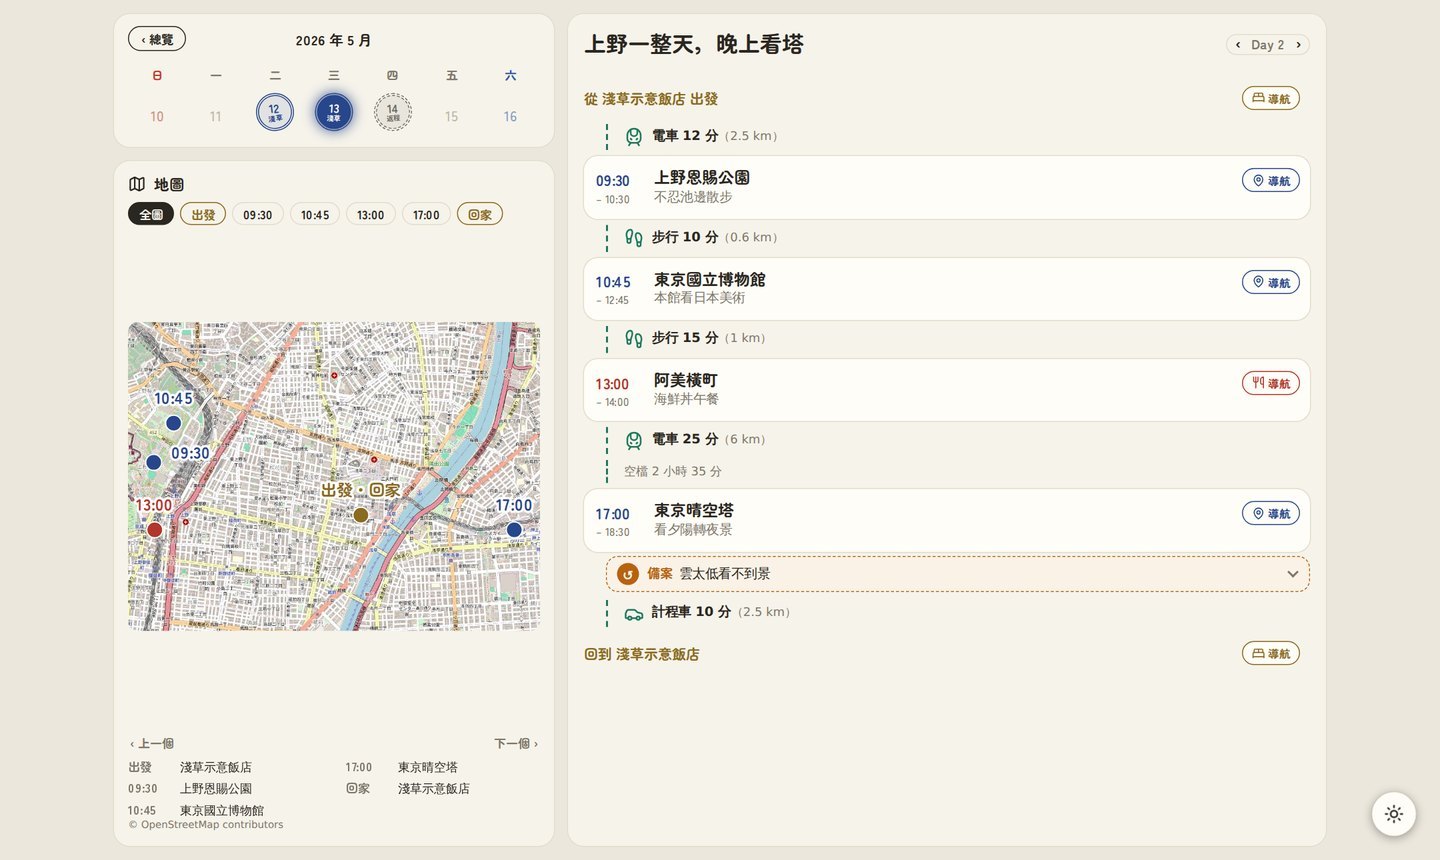
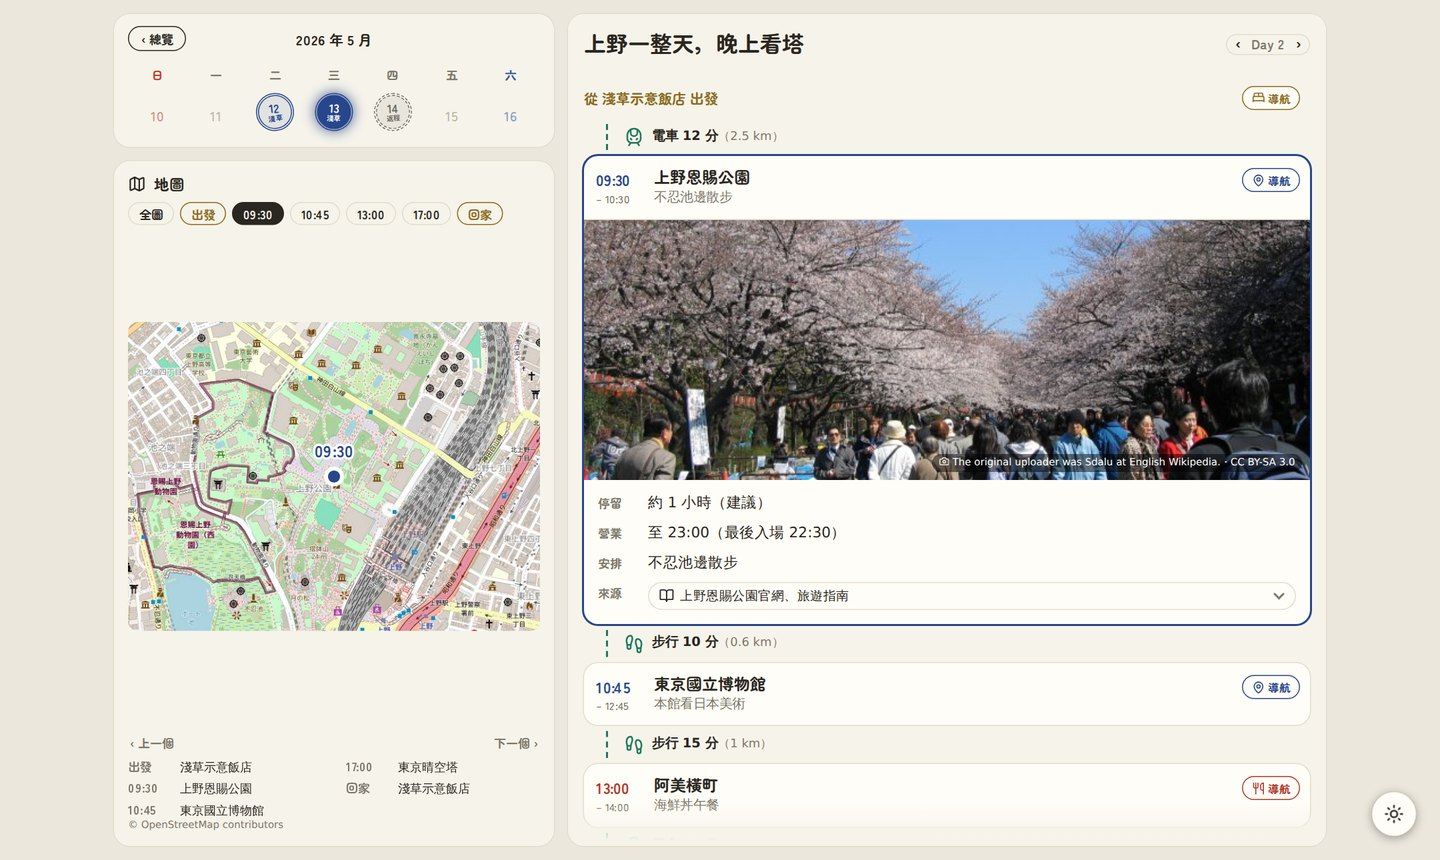
docs(readme): shots with photos, an opened stop, the lock screen; FAQ as headings
User's picks on the board: photos=P1 (with photos), lock=L1 (the lock
screen plus how Cloudflare hosts it). Then, from the user: the day
shots show a stop opened, and the unopened versions go.

- demo_trip.py runs the plugin's own photo step (photo_adapter --backend
  wiki: Wikidata first, licence-checked, credited) -- 5 of the demo's
  landmarks get a photo -- and locks the reader with the shipped template
  and the real staticrypt (made-up password) for phone-lock.jpg.
- phone-day / desktop-day open D2's first stop with a photo (上野恩賜公園).
- README: the lock shot and a Cloudflare paragraph in 分享版 (your own
  Pages account, random path, encrypted before upload, asks before each
  upload); hero / desktop alt text and caption follow the opened stop.
- FAQ: each question is a ### heading with its answer below it (the
  bold question and its answer rendered as one line on GitHub).

Privacy: made-up trip, public landmarks; tests/test_privacy.py green.

diff --git a/docs/images/readme/demo_trip.py b/docs/images/readme/demo_trip.py
@@ -1,9 +1,12 @@
 """The README's screenshots: a made-up 3-day Tokyo trip (示意), rendered by the shipped reader.
 
 Never a user's real trip (their plans are private). Only public landmarks; the hotel and
-every source URL are placeholders, the hours are illustrative, and there are no photos.
-The day maps are drawn from real OpenStreetMap tiles (scripts/day_maps.py: its User-Agent,
-cache and one request a second), so the credit shows on every map.
+every source URL are placeholders and the hours are illustrative. The day maps are drawn
+from real OpenStreetMap tiles (scripts/day_maps.py: its User-Agent, cache and one request a
+second), so the credit shows on every map. The photos come from the plugin's own photo step
+(scripts/photo_adapter.py --backend wiki: Wikidata first, licence-checked, credited). The
+shared page's lock screen is the shipped template, locked by the real staticrypt (needs
+Node) with a made-up password.
 
     pip install -e ".[dev,browser,maps]"
     python docs/images/readme/demo_trip.py        # writes docs/images/readme/*.jpg
@@ -11,6 +14,7 @@ cache and one request a second), so the credit shows on every map.
 import copy
 import io
 import pathlib
+import subprocess
 import sys
 import tempfile
 
@@ -22,6 +26,7 @@ from tests import reader_fixture as R                    # noqa: E402
 from tests.reader_fixture import _closing, _mv, _poi, _src, _stop   # noqa: E402
 
 OUT = pathlib.Path(__file__).resolve().parent
+OPEN_STOP = "section[data-pg=d2] .stop:has(.bp)"           # D2's first stop with a photo
 
 
 def poi(pid, local, zh, cat, lat, lng, hours, district, intro=None, address=None):
@@ -148,16 +153,33 @@ def render(root):
                       ("itinerary.yaml", itin), ("cost.yaml", COST)):
         M.write_artifact(artifact_path(t, name), doc)
     maps = build(t, w)                                     # real OSM tiles, cached, 1 req/s
-    pm = {p["id"]: p for p in POIS + [HOTEL]}
+    from scripts import photo_adapter
+    from scripts.media_merge import apply_media, load_media
+    if photo_adapter.main([str(t), "--backend", "wiki"]) != 0:           # Wikidata first, then search
+        raise SystemExit("photo_adapter failed")
+    pm = apply_media({p["id"]: p for p in POIS + [HOTEL]},
+                     load_media(artifact_path(t, "verified-pois-media.yaml")))
     reader = root / "reader.html"
     reader.write_text(render_reader(itin, pm, brief=b, accommodations=ACC, advisory=R.ADVISORY,
                                     legs={"legs": []}, maps=maps, cost=COST), encoding="utf-8")
     picker = root / "picker.html"
     picker.write_text(picker_page(itin, b, ACC), encoding="utf-8")
-    return reader, picker
+    return reader, picker, lock(root, reader)
 
 
-def shoot(reader, picker):
+def lock(root, reader):
+    """The shared page's lock screen: the reader locked with the shipped template."""
+    from scripts.render.publish.lock import lock_template, staticrypt_args
+    d = root / "lock"
+    d.mkdir()
+    (d / "template.html").write_text(lock_template(), encoding="utf-8")
+    (d / "index.html").write_text(reader.read_text(encoding="utf-8"), encoding="utf-8")
+    subprocess.run(["npx", "--yes", *staticrypt_args("東京三天", d / "template.html", d / "out", d / "index.html")],
+                   cwd=d, check=True, capture_output=True)
+    return d / "out" / "index.html"
+
+
+def shoot(reader, picker, locked):
     from PIL import Image
     from playwright.sync_api import sync_playwright
 
@@ -172,8 +194,12 @@ def shoot(reader, picker):
         pg = wk.new_page(viewport={"width": 390, "height": 844}, device_scale_factor=2)
         pg.goto(reader.as_uri()); pg.wait_for_timeout(400)
         save(pg, "phone-home", 540)
+        # every day shot shows a stop opened -- the trip's first stop with a photo -- so the
+        # first look at the repo shows what a stop holds
         pg.evaluate("document.getElementById('pg-d2').checked=true"); pg.wait_for_timeout(300)
+        pg.evaluate(f"location.hash='#'+document.querySelector('{OPEN_STOP}').id"); pg.wait_for_timeout(900)
         save(pg, "phone-day", 540)
+        pg.evaluate("location.hash=''")
         pg.evaluate("document.getElementById('pg-d1').checked=true"); pg.wait_for_timeout(300)
         sid = pg.evaluate("document.querySelector('section[data-pg=d1] .stop:has(.drvbtn)').id")
         pg.evaluate(f"location.hash='#{sid}'"); pg.wait_for_timeout(900)
@@ -185,6 +211,8 @@ def shoot(reader, picker):
         pg.evaluate("document.getElementById('pg-d2').checked=true;document.querySelector('section[data-pg=d2] .mapc').open=true")
         pg.wait_for_timeout(500)
         save(pg, "phone-map", 540)
+        pg.goto(locked.as_uri()); pg.wait_for_selector(".lock", state="visible"); pg.wait_for_timeout(300)
+        save(pg, "phone-lock", 540)
         pg.close()
         wk.close()
         cr = p.chromium.launch()
@@ -192,6 +220,7 @@ def shoot(reader, picker):
         pg.goto(reader.as_uri()); pg.wait_for_timeout(500)
         save(pg, "desktop-home", 1440)
         pg.evaluate("document.getElementById('pg-d2').checked=true"); pg.wait_for_timeout(500)
+        pg.evaluate(f"location.hash='#'+document.querySelector('{OPEN_STOP}').id"); pg.wait_for_timeout(1200)
         save(pg, "desktop-day", 1440)
         pg.goto(picker.as_uri()); pg.wait_for_timeout(500)       # the title picker: used on a computer
         save(pg, "desktop-picker", 1440)

diff --git a/README.md b/README.md
@@ -4,10 +4,10 @@
 
 <p align="center">
   <img src="docs/images/readme/phone-home.jpg" width="250" alt="手機首頁：搞笑標題、紀念章月曆、住宿／入境規定／行前清單、旅程與費用">
-  <img src="docs/images/readme/phone-day.jpg" width="250" alt="手機的每日行程：小月曆、當天標題、地圖、一站接一站的行程卡">
+  <img src="docs/images/readme/phone-day.jpg" width="250" alt="手機的每日行程：點開一站，照片、停留時間、營業時間、安排與來源">
   <img src="docs/images/readme/phone-map.jpg" width="250" alt="每日地圖：點時間膠囊跳到那一站">
 </p>
-<p align="center"><sub>示意行程：東京 3 天 2 夜（虛構的例子）。左起依序是首頁、每日行程、每日地圖。</sub></p>
+<p align="center"><sub>示意行程：東京 3 天 2 夜（虛構的例子）。左起依序是首頁、每日行程（點開一站）、每日地圖。</sub></p>
 
 tripwork 是 Claude Code 的外掛，你**不需要會寫程式**。它不憑印象排行程：每個景點、餐廳、住宿、營業時間和入境規定，
 都要先找到 **2 個以上的獨立來源（至少 1 個是當地語言）**，而且**地圖座標要落在對的地方**，才會排進你的行程。
@@ -112,13 +112,19 @@ claude plugin marketplace update tripwork && claude plugin install tripwork
 ### 電腦：同一個檔案，變成大螢幕儀表板
 
 <p align="center"><img src="docs/images/readme/desktop-home.jpg" width="820" alt="電腦版首頁：放大的紀念章月曆，每枚印章外圈寫著當天主題；左欄是旅程與費用"></p>
-<p align="center"><img src="docs/images/readme/desktop-day.jpg" width="820" alt="電腦版每日頁：左邊月曆和地圖，右邊當天行程"></p>
+<p align="center"><img src="docs/images/readme/desktop-day.jpg" width="820" alt="電腦版每日頁：左邊月曆和地圖，右邊當天行程，點開的一站有照片、營業時間與來源"></p>
 
-首頁是放大的紀念章月曆，每枚印章外圈寫著當天的主題；點一天就進入儀表板，左邊是月曆和地圖，右邊是當天行程，點哪一站地圖就跟著跳過去。
+首頁是放大的紀念章月曆，每枚印章外圈寫著當天的主題；點一天就進入儀表板，左邊是月曆和地圖，右邊是當天行程，點開哪一站，地圖就跟著跳過去。
 
 ### 分享版：家人用手機瀏覽器打開
 
 同一份行程，放到網路上、加上密碼，給不在你身邊的家人朋友看（iPhone 用 Safari、Android 用 Chrome 都可以）。
+
+<p align="center"><img src="docs/images/readme/phone-lock.jpg" width="250" alt="分享版的密碼頁：只有「我們的旅程」、密碼欄、記得密碼與打開行程，看不出是哪一趟"></p>
+
+- **放在你自己的 Cloudflare 上**：用 Cloudflare Pages（免費方案就夠），網址像 `https://你取的名字.pages.dev/k3x9q2ab/`。
+  後面那段是隨機產生的，看不出地點或日期；行程在你電腦上就先加密，上傳到 Cloudflare 的只有加密過的頁面，
+  沒有密碼誰都打不開。第一次要登入 Cloudflare、電腦要裝 Node.js；**每次上傳前它都會先問你**。
 
 - **先輸入密碼**：頁面上不會出現行程名稱、日期或地點；密碼可以用中文，iPhone 照樣能用注音輸入。勾「記得密碼」，下次打開就不用再輸入。
 - **手機上滑著看**：左右滑換天，住宿／入境規定／行前清單往右滑回首頁，放大的地圖或照片往下拉就關掉。
@@ -190,28 +196,35 @@ claude plugin marketplace update tripwork && claude plugin install tripwork
 
 ## 常見問題
 
-**要付費或申請 API key 嗎？**
+### 要付費或申請 API key 嗎？
+
 不用。地圖座標用免費的 OpenStreetMap Nominatim；網路搜尋用 Claude Code 內建功能。要分享給家人的話，需要一個 Cloudflare 帳號（免費方案就夠）。
 
-**它會不會自己亂編地點？**
+### 它會不會自己亂編地點？
+
 不會。沒通過查證關卡的地點進不了行程，且會被標明原因留存，不會假裝成「已驗證」。
 
-**支援哪些目的地？**
+### 支援哪些目的地？
+
 任何地方都可以——只要該地點在網路上有 ≥2 個來源、且地圖查得到座標。會自動用
 當地語言搜尋，所以日本、韓國、東南亞等地的在地小店也涵蓋得到。
 
-**家人怎麼打開分享版？**
+### 家人怎麼打開分享版？
+
 把網址傳給他們，用手機瀏覽器打開、輸入密碼就好。也可以直接傳分享連結（點開不用輸入密碼，所以只傳給家人）。
 換一組密碼重新發布，舊的分享連結就會失效。
 
-**怎麼放進 Notion？**
+### 怎麼放進 Notion？
+
 把產好的 Markdown 行程貼進 Notion 頁面就好（透過你環境的 Notion MCP）。Notion 不是獨立的輸出步驟，貼的就是那份已驗證的 Markdown。
 
-**更新到 1.0 之後，舊的行程怎麼辦？**
+### 更新到 1.0 之後，舊的行程怎麼辦？
+
 下次請它繼續舊行程時，它會先停下來，請你同意把舊資料搬進行程資料夾裡的資料子資料夾（只搬位置、不改內容），
 接著補上新版需要的東西——例如每天一句短主題、讓你挑的搞笑標題、住宿所在地區——再重新產出成品。
 
-**我可以中途改需求嗎？**
+### 我可以中途改需求嗎？
+
 可以。每個階段的產物都是檔案，調度中心會從你改動的地方接續往下跑，不用整個重來。
 
 ---
